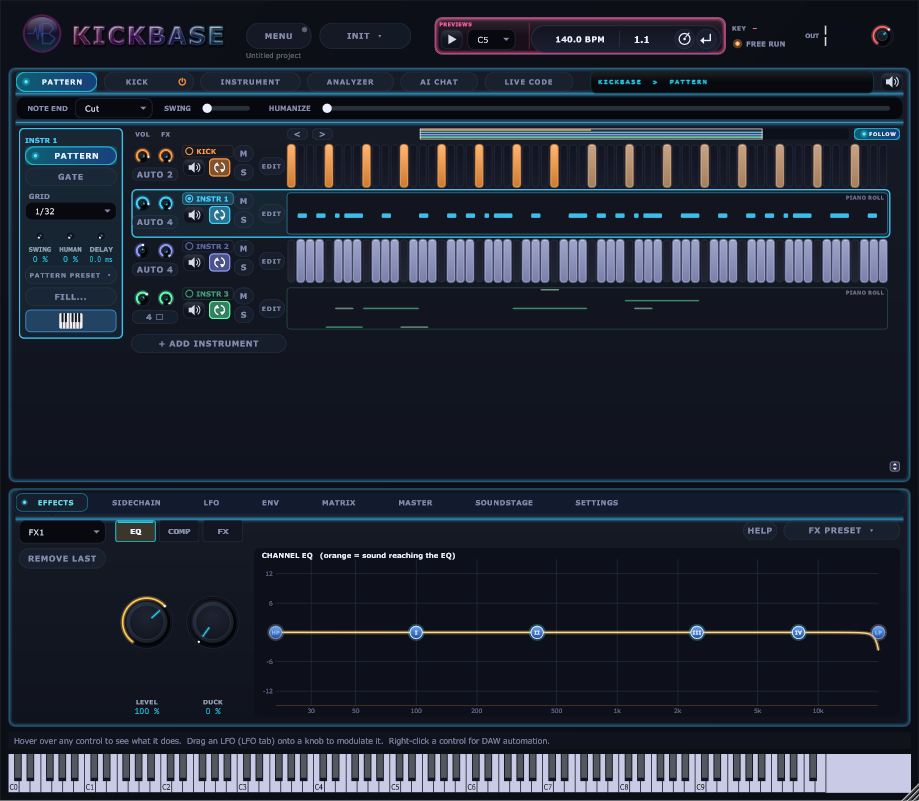
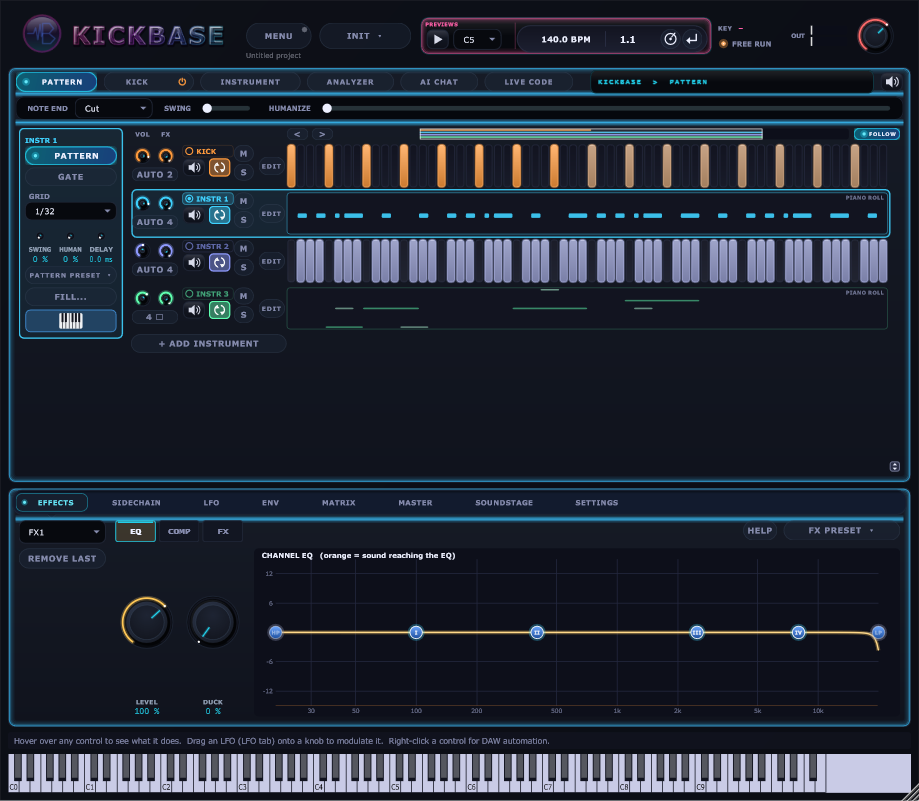
ui: menyluft 5 px via Theme::Space, glod av som standard, PREVIEWS glas, stor OUT-ratt

diff --git a/Source/Ui/TabbedPanel.h b/Source/Ui/TabbedPanel.h
@@ -67,8 +67,8 @@ private:
 class TabbedPanel : public juce::Component, private juce::Timer
 {
 public:
-    static constexpr int headerHeight = 36;
-    static constexpr int extrasRowHeight = 30; // rad 2: sidans kontroller (väljare, på/av, preset) i remsa-stil
+    static constexpr int headerHeight = 3 + Theme::Space::menuButtonH + 2 * Theme::Space::menuPadY + 3;
+    static constexpr int extrasRowHeight = Theme::Space::menuButtonH + 2 * Theme::Space::menuPadY; // rad 2: sidans kontroller (väljare, på/av, preset) i remsa-stil
 
     // `rememberedTab` pekar på var den valda fliken sparas (t.ex. i processorn), så att
     // samma flik visas när fönstret öppnas igen.
@@ -256,7 +256,7 @@ public:
 
     void resized() override
     {
-        auto header = getLocalBounds().removeFromTop (headerHeight).reduced (10, 4).withTrimmedTop (2);
+        auto header = juce::Rectangle<int> (10, 3 + Theme::Space::menuPadY, std::max (0, getWidth() - 20), Theme::Space::menuButtonH);
         if (previewButton != nullptr)
         {
             previewButton->setBounds (header.removeFromRight (previewWidth));
@@ -264,7 +264,7 @@ public:
         }
         // Knappens bredd = textbredd + 2 x 14 px (+ plats för LED/ström-knapp): texten krymper aldrig.
         const auto pillsLeft = header.getX();
-        const auto strip = header.expanded (4, 3);
+        const auto strip = header.expanded (4, Theme::Space::menuPadY);
         stripArea = strip;
         int usedWidth = 0;
         for (auto& tab : tabs)
@@ -286,10 +286,10 @@ public:
         extrasRow = juce::Rectangle<int> (10, headerHeight + 2, std::max (0, getWidth() - 20), extrasRowHeight);
         for (auto& tab : tabs)
         {
-            auto content = getLocalBounds().reduced (Theme::Space::panelPad).withTrimmedTop (headerHeight - 8);
+            auto content = getLocalBounds().reduced (Theme::Space::panelPad).withTrimmedTop (headerHeight - 12);
             if (tab.headerExtras != nullptr)
             {
-                tab.headerExtras->setBounds (extrasRow.reduced (8, 2));
+                tab.headerExtras->setBounds (extrasRow.reduced (8, Theme::Space::menuPadY));
                 content.setTop (extrasRow.getBottom() + Theme::Space::md);
             }
             tab.page->setBounds (content);
@@ -299,7 +299,7 @@ public:
 private:
     static constexpr int previewWidth = 30;
     static constexpr int powerSpace = 30; // plats för på/av-ikonen längst till höger på en flik
-    static constexpr int tabGap = 8;
+    static constexpr int tabGap = Theme::Space::menuGapX;
 
     void updatePreviewButton()
     {

diff --git a/Source/Ui/Theme.h b/Source/Ui/Theme.h
@@ -97,6 +97,9 @@ namespace Theme
         inline constexpr int md = 10;       // mellan rattgrupper och rutor
         inline constexpr int lg = 14;       // mellan paneler/avdelningar
         inline constexpr int panelPad = 14; // inre marginal i en panel
+        inline constexpr int menuPadY = 5;  // luft over och under knapparna i alla menyrader
+        inline constexpr int menuGapX = 12; // avstand i sidled mellan menyknappar
+        inline constexpr int menuButtonH = 26; // knapphojd i menyrader
         inline constexpr int rowGap = 8;    // mellan menyrader (nivå 1-3)
     }
 
@@ -220,19 +223,20 @@ namespace Theme
 
     // Gemensam kantglöd (å): tre tunna inre linjer med fallande styrka, inget blur. Billigt nog att ritas varje gång.
     // Glödstyrka från SETTINGS (Av / Svag / Stark): samma skala för kantglöd och avdelare.
-    inline float glowStrength() { static constexpr float scale[3] = { 0.0f, 1.0f, 1.8f }; return scale[Settings::glowLevel()]; }
+    inline float glowStrength() { static constexpr float scale[3] = { 0.0f, 1.0f, 3.0f }; return scale[Settings::glowLevel()]; }
 
     // Används av alla paneler, kort och avdelare så att glöden ser likadan ut överallt. Inåt, så att grannar inte klipper den.
     inline void paintEdgeGlow (juce::Graphics& g, juce::Rectangle<float> area, float corner, juce::Colour colour = juce::Colour (0xff38bdf8),
                                float strength = 1.0f)
     {
-        static constexpr float alphas[3] = { 0.24f, 0.13f, 0.06f };
+        static constexpr float alphas[5] = { 0.24f, 0.13f, 0.06f, 0.04f, 0.02f };
         strength *= glowStrength();
         if (strength <= 0.0f)
             return;
-        for (int i = 0; i < 3; ++i)
+        const auto rings = strength > 1.5f ? 5 : 3; // Stark: bredare glöd, inte bara starkare
+        for (int i = 0; i < rings; ++i)
         {
-            g.setColour (colour.withAlpha (alphas[i] * strength));
+            g.setColour (colour.withAlpha (juce::jmin (1.0f, alphas[i] * strength)));
             g.drawRoundedRectangle (area.reduced (1.5f + (float) i * 1.5f), juce::jmax (1.0f, corner - (float) i), 1.5f);
         }
     }

diff --git a/Source/Ui/Modules.cpp b/Source/Ui/Modules.cpp
@@ -471,7 +471,8 @@ void HeaderBar::resized()
     // Till höger: mätare och lyssnarvolym längst ut, sedan tonart, sedan (instrumentet) en gemensam ruta för
     // PREVIEWS, LOOP, tempo/takt och JOG. Sätts först, så att vänstra delen kan krympa vid smal bredd.
     auto right = getLocalBounds().reduced (14, 0);
-    masterKnob.setBounds (right.removeFromRight (46).withSizeKeepingCentre (46, 46)); // stor OUT-ratt (ä)
+    const auto outSize = std::min (height - 4, 64);
+    masterKnob.setBounds (right.removeFromRight (outSize).withSizeKeepingCentre (outSize, outSize)); // stor OUT-ratt (ä)
     right.removeFromRight (4);
     meterRect = right.removeFromRight (meterWidth).withSizeKeepingCentre (meterWidth, 28);
     right.removeFromRight (10);
@@ -768,11 +769,7 @@ void HeaderBar::paint (juce::Graphics& g)
         const auto group = transportGroup.toFloat();
         // Glasdisplay (ä): mörkt glas med ljusreflex, tunn kant i mönsterfärgen och gemensam kantglöd (å).
         Theme::paintGlassDisplay (g, group, 9.0f);
-        g.setColour (Theme::pattern.withAlpha (0.07f));
-        g.fillRoundedRectangle (group, 9.0f);
-        g.setColour (Theme::pattern.withAlpha (0.55f));
-        g.drawRoundedRectangle (group.reduced (0.5f), 9.0f, 1.0f);
-        Theme::paintEdgeGlow (g, group, 9.0f, Theme::pattern, 1.6f);
+        Theme::paintEdgeGlow (g, group, 9.0f, Theme::pattern, 0.8f); // svag färgad glöd i stället för röd ram
         g.setFont (Theme::font (8.5f, true));
         g.setColour (Theme::pattern);
         g.drawText ("PREVIEWS", previewGroup.toFloat().withHeight (12.0f), juce::Justification::centredLeft);

diff --git a/Source/Core/Settings.cpp b/Source/Core/Settings.cpp
@@ -364,7 +364,7 @@ namespace Settings
         if (level < 0)
         {
             const auto forced = juce::SystemStats::getEnvironmentVariable ("KB_GLOW", {}); // för bildverktyget
-            level = juce::jlimit (0, 2, forced.isNotEmpty() ? forced.getIntValue() : get ("glowLevel").isEmpty() ? 1 : get ("glowLevel").getIntValue());
+            level = juce::jlimit (0, 2, forced.isNotEmpty() ? forced.getIntValue() : get ("glowLevel").isEmpty() ? 0 : get ("glowLevel").getIntValue());
             glowState = level;
         }
         return level;

diff --git a/docs/work/PROGRESS-w1.md b/docs/work/PROGRESS-w1.md
@@ -651,3 +651,8 @@ Utvidgning av (z): gäller alla menyer i pluginet. Tre nivåer (huvudmeny, under
 ## 2026-10-28 glöd/menyer/glasknappar (A1)
 - Glöd starkare (Theme.h paintEdgeGlow/paintDividerGlow), menynivå 2 blåtonad, nivå 3 lägre+mörkare, avdelare under varje nivå; ListenButton som glasknapp (Theme::paintGlassButton); OUT-ratt 46 px; spacing-skala `Theme::Space` (TabbedPanel använder den; resten av GUI:t byts steg för steg).
 - SETTINGS: GLOW Av/Svag/Stark (Settings::glowLevel, användarinställning "glowLevel", standard Svag, env KB_GLOW för bildverktyget). Bilder: glod-glas-menyer-2.png, glod-svag.png, glod-stark.png.
+
+## 2026-10-28 kväll (A1)
+- Glöd: standard nu Av (Settings.cpp glowLevel), kod kvar. PREVIEWS glasdisplay, OUT-ratt upp till 64 px.
+- Menyluft: Theme::Space::menuPadY=5, menuGapX=12, menuButtonH=26 (Theme.h); används i TabbedPanel.h (headerHeight, extrasRowHeight, resized, tabGap). Debug all grön.
+- PL: inga fler bilder; (t) tagen av PL, (r)/(u) av A2.
